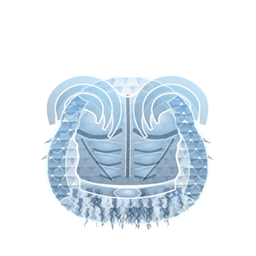
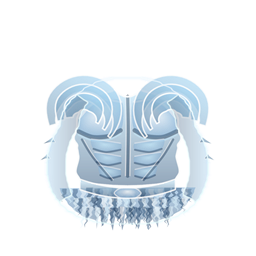
Call of Valor: no dragon scales anywhere, and the arm band left alone
The new checkpoint. Two changes, and the second is the one that actually
cleared the scales.

THE ARM BAND KEEPS EXACTLY THE SHAPE IT HAD - BuildArmsPath's own sleeve, same
outer line - filled smooth instead of scaled. A first attempt replaced it with
four articulated lames (rerebrace, couter, vambrace, cuff) and was rejected:
"just the scales, don't change its shape. keep its outer lines as it was but
remove the details inside of it."

The lames were fine work; the failure was SCOPE. The instruction was about what
is drawn INSIDE an outline, and the outline belonged to a silhouette already
approved and checkpointed. When an instruction names a surface treatment, it is
not licence to redraw the form under it. DrawArmPlates is kept, uncalled and
marked, purely so the geometry is not lost.

THE SCALE FIELD IS REMOVED OUTRIGHT. It took three goes and the first two were
aimed at the wrong layer:

  1. cut the fur's outline out of the field - correct for the fur, and the
     scales still covered everything else
  2. empty the ARM BAND of its own scales - and they were STILL on the arms
  3. remove the field

Why (2) could never have worked: BuildTorsoPath SPANS THE ENTIRE SILHOUETTE,
ARMS INCLUDED. It is not a torso-minus-arms shape. The field was painting the
arms regardless of what the arm band drew, and the smooth arm fill at ~112 alpha
was simply layered on top of a scale pattern that was still underneath.

Two method lessons, both now in the notebook:
[…]

diff --git a/Mods/Dovahkiin/CHANGELOG.md b/Mods/Dovahkiin/CHANGELOG.md
@@ -1,5 +1,69 @@
 # CHANGELOG
 
+## Call of Valor: the scale field is gone entirely — no scales on any view (2026-07-31)
+
+The arm band keeps **exactly** the shape it always had — `BuildArmsPath`'s own sleeve, same outer
+line — and is filled smooth instead of scaled. Nothing else about it moved. And the **dragon-scale
+field is removed outright**, which is what actually cleared the scales.
+
+### It took three goes, and the first two were aimed at the wrong layer
+
+1. **Cut the fur's outline out of the scale field.** Correct for the fur, and the scales still
+   covered everything else.
+2. **Empty the ARM BAND of its own scales.** The user's report: *"you took the scales away on one
+   pic, then they are still on the others."* They were right, and it was not a per-rotation bug —
+   the arms were scaled on **every** view including the one I had checked, and I had looked at a
+   single south crop and called it done.
+3. **Remove the field.** That worked.
+
+*Why (2) could never have worked:* **`BuildTorsoPath` spans the ENTIRE silhouette, arms included.**
+It is not a torso-minus-arms shape. So the scale field was painting the arms no matter what the arm
+band drew, and the smooth arm fill at ~112 alpha was simply layered on top of a scale pattern that
+was still underneath it.
+
+**The general trap: a clip named for one part of the body may not be limited to it.** Check what a
+path actually covers before concluding that the feature drawn inside it is the thing you can see.
+And the method lesson under that: **verify a "remove X everywhere" change on every view before
+reporting it**, not on the one crop that is convenient — a three-rotation zoom took one script and
+showed the truth immediately.
+
+Nothing is left bare. Every region now carries its own treatment — cuirass over the trunk, belt,
+fur, arm bands — and the plate's edge (0.755 of the half-width at the chest) overlaps the arm
+band's inner edge (~0.70), so there is no seam to expose.
+
+### The correction, recorded because the mistake is an instructive one
+
+Told *"remove the scales from the arms"*, the first attempt replaced the band with four articulated
+lames — rerebrace, couter, vambrace, cuff. The user's answer: *"just the scales, don't change its
+shape. keep its outer lines as it was but remove the details/drawings inside of it."*
+
+They were right, and the failure was not one of craft — the lames were fine. **It was scope.** The
+instruction was about what is drawn *inside* an outline; I changed the outline, and the outline was
+part of a silhouette they had already approved and checkpointed. *When an instruction names a
+surface treatment, it is not licence to redraw the form underneath it* — especially not one that is
+already signed off. `DrawArmPlates` is kept, uncalled and clearly marked, purely so the geometry is
+not lost.
+
+### What the smooth fill needed anyway
+
+- **One side at a time.** A single `LinearGradientBrush` over both arms' combined bounds would
+  light the left arm and shade the right, because a linear gradient only knows its bounding box.
+- **Shaded ACROSS the limb, not down it.** An arm is a cylinder seen along its length, so the
+  gradient runs outer-edge to inner. The cuirass's vertical 90° made the arms read as flat ribbons.
+- **A thin edge, fainter than the cuirass's rim.** Not a new detail — the scales' own boundary was
+  what made that outline crisp, and removing them removed the edge with them.
+
+**And the level-1 trap, which nearly went unnoticed:** the arm band is the **only thing drawn at
+level 1**. Emptying it without a fill would have left word 1 of Dragon Aspect with no visible
+effect whatsoever on this build. The fill is a little stronger there, exactly as the scales were.
+
+Dragon Aspect untouched: 36 of 36 byte-identical.
+
+**Still Dragon Aspect's on the arms: the ELBOW SPIKES** — now the only dragon element left on the
+limb. Untouched, because the instruction was the scales.
+
+---
+
 ## Call of Valor: the fur runs the whole lower body (2026-07-31)
 
 The user's correction: the fur should cover the whole lower part, down to the extremities.

diff --git a/Mods/Dovahkiin/Tools/ValorApproved_2026-07-31/README.md b/Mods/Dovahkiin/Tools/ValorApproved_2026-07-31/README.md
@@ -12,7 +12,11 @@ Frozen here so that later changes cannot lose it.
 > |---|---|
 > | pauldrons + chest | `008e674` |
 > | + the abdominal half | `53472b3` |
-> | **+ belt, fur, curved belt, no thigh plates** | **current** |
+> | + curved belt, fur, no thigh plates | `f7c9b1c` |
+> | + the side-view fit corrected | `814510a` |
+> | + fur as zigzag strands | `a54b526` |
+> | + fur down the whole lower body | `f26e573` |
+> | **+ no scale field anywhere** | **current** |
 
 This folder is a **snapshot, not a source**. Nothing in the mod loads it — `Tools/` is not
 scanned for textures. It exists so that any future version of the champion can be compared
@@ -41,9 +45,14 @@ against the one that was actually approved, byte for byte, instead of from memor
   per side. North gets one erector-spinae mass per side rather than rows.
 - A **belt that curves round the body** — its width taken from the cuirass's own edge, its centre
   dropping below its ends like the near arc of an ellipse. **One buckle, on the front only.**
-- A **fur skirt** below it: tufted hem, matte, and deliberately no specular rim.
+- A **fur skirt** running the whole lower body to the extremities: three overlapping tiers of
+  zigzag strands, tufted hem, matte, and deliberately no specular rim.
+- **Smooth arm bands** — `BuildArmsPath`'s own sleeve, unchanged in shape, with no scales inside.
+- **NO DRAGON-SCALE FIELD ANYWHERE.** Removed outright, not clipped back.
 - **No thigh plates.** Built, then switched off at the user's request — `$DRAW_TASSETS = $false`.
   `DrawTasset` is intact and must not be deleted; the word was "for now".
+- **`DrawArmPlates` exists but is NOT called** — four articulated arm lames, rejected by the user
+  for changing an approved silhouette. Do not wire it back in.
 - **No crest shards.** Suppressed deliberately: they run down the same chest the cuirass occupies
   and win outright, so the pectorals stopped existing. There is no alpha at which both read.
 
